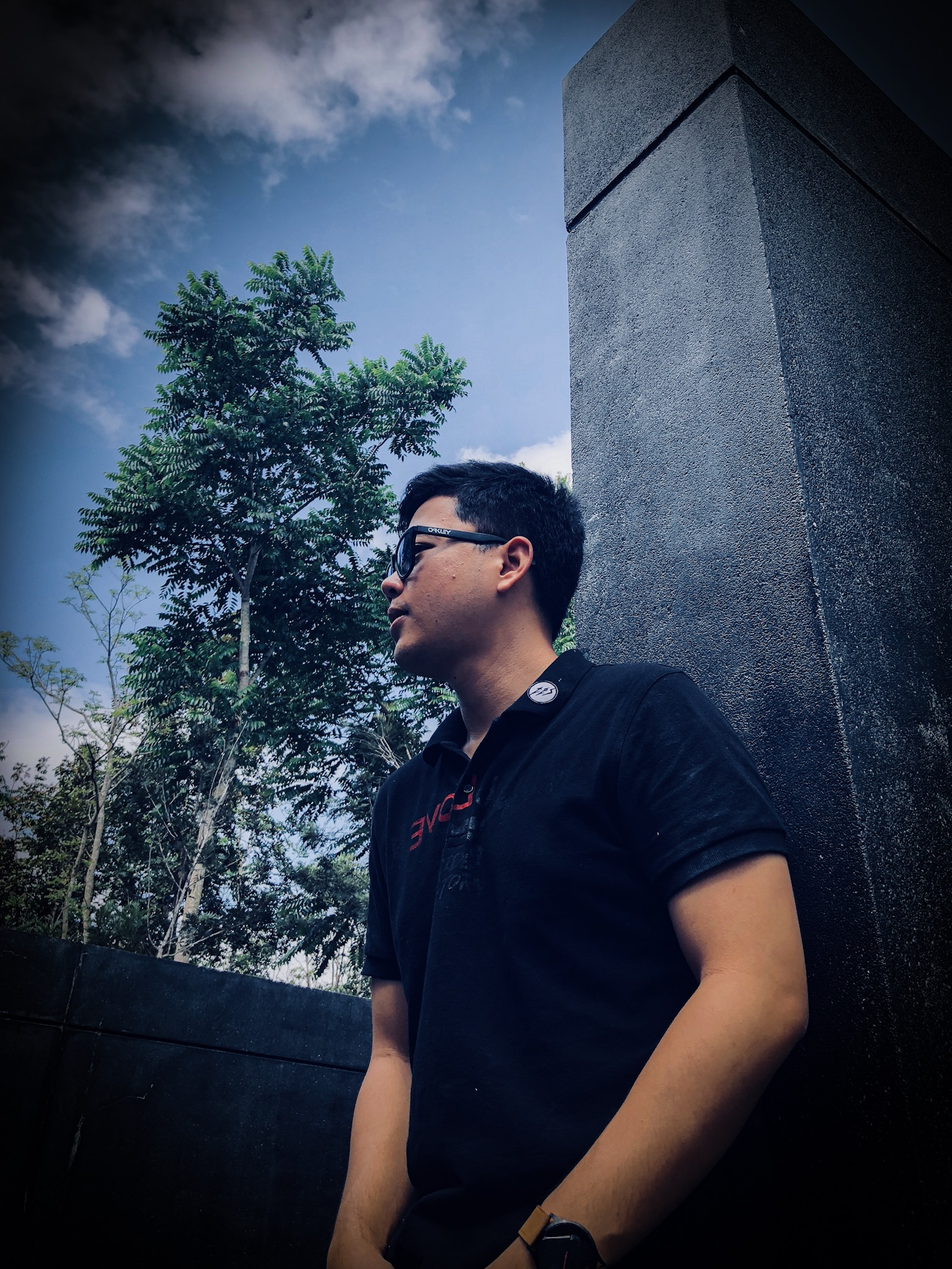
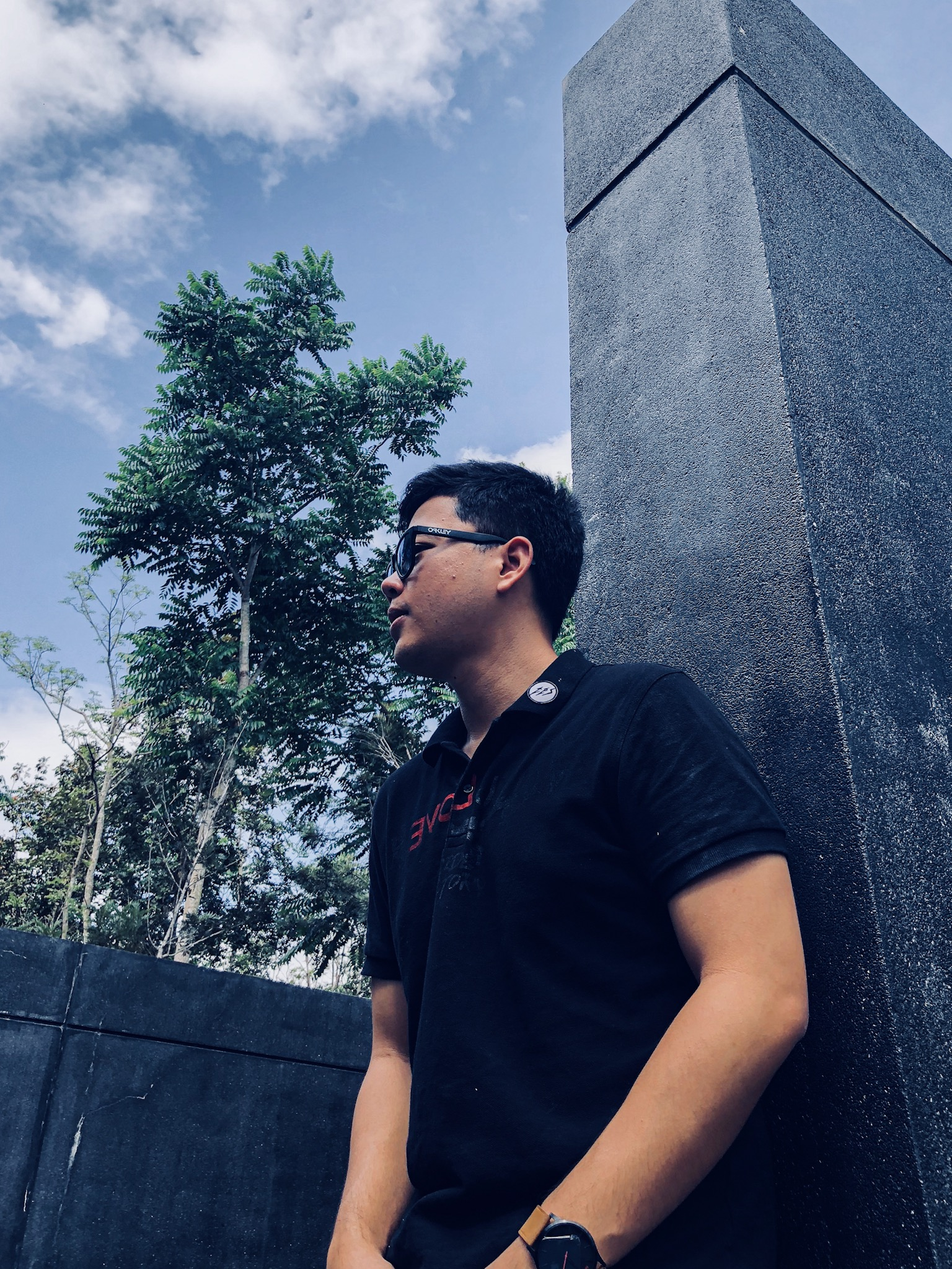
Finish section about

diff --git a/components/SectionAbout/index.js b/components/SectionAbout/index.js
@@ -1,20 +1,31 @@
 import styled from 'styled-components'
-import { Icon } from 'semantic-ui-react'
 import { pinkPrimary } from '../../css/Colors'
 
 const TonyImage = styled('img')`
   width: 100%;
   height: auto;
-  opacity: 0.7;
   display: block;
   border-radius: 20px;
 `
 
-const ContentLeft = styled('div')`
-  width: 450px;
-  min-width: 300px;
+const OverlayImage = styled('div')`
+  position: absolute;
+  top: 0;
+  left: 0;
+  right: 0;
+  bottom: 0;
+  z-index: 1;
   border-radius: 20px;
-  box-shadow: 10px 10px 20px 0 #000, -10px -10px 20px 0 #000;
+  box-shadow: 40px 40px 40px 0 #000 inset,
+              -40px -40px 40px 0 #000 inset;
+`
+
+const ContentLeft = styled('div')`
+  position: relative;
+  width: 350px;
+  min-width: 350px;
+  border-radius: 20px;
+  margin-bottom: 40px;
 `
 
 const ContentRight = styled('div')`
@@ -31,7 +42,6 @@ const TextTitle = styled('p')`
 `
 
 const BoxDetail = styled('div')`
-  display: flex;
   margin-bottom: 30px;
 `
 
@@ -39,6 +49,8 @@ const Wrapper = styled('section')`
   background-color: #0E1415;
   padding: 100px;
   display: flex;
+  flex-wrap: wrap;
+  justify-content: center;
   box-shadow: 50px 50px 50px 0 #000 inset,
               -50px -50px 50px 0 #000 inset;
 `
@@ -46,49 +58,35 @@ const Wrapper = styled('section')`
 const AboutSection = ({ profile, profile: { nickName: [ton, tony] } }) => (
   <Wrapper id='about'>
     <ContentLeft>
-      <TonyImage src='/static/image/section-about-tony.jpg' />
+      <TonyImage src={profile.picture} />
+      <OverlayImage />
     </ContentLeft>
     <ContentRight>
       <BoxDetail>
-        <TextTitle>
-          <Icon name='smile outline' />
-        </TextTitle>
-        <div>
-          <TextTitle>Myself</TextTitle>
-          <p>
-            My name is <u>Mr.{profile.firstName} {profile.lastName}</u> i am {profile.year} years old. And for my nickname you can call me <u>{ton}</u> or <u>{tony}</u>.
-          </p>
-        </div>
+        <TextTitle>Myself</TextTitle>
+        <p>
+          My name is <u>Mr.{profile.firstName} {profile.lastName}</u> i am {profile.year} years old. And for my nickname you can call me <u>{ton}</u> or <u>{tony}</u>.
+        </p>
       </BoxDetail>
       <BoxDetail>
-        <TextTitle>
-          <Icon name='list' />
-        </TextTitle>
-        <div>
-          <TextTitle>Introduce</TextTitle>
-          <ul style={{ paddingLeft: 15 }}>
-            {
-              profile.introduces.map((introduce, index) => (
-                <li key={index}>{introduce}</li>
-              ))
-            }
-          </ul>
-        </div>
+        <TextTitle>Introduce</TextTitle>
+        <ul style={{ paddingLeft: 15 }}>
+          {
+            profile.introduces.map((introduce, index) => (
+              <li key={index}>{introduce}</li>
+            ))
+          }
+        </ul>
       </BoxDetail>
       <BoxDetail>
-        <TextTitle>
-          <Icon name='pencil alternate' />
-        </TextTitle>
-        <div>
-          <TextTitle>Work Experience</TextTitle>
-          <ul style={{ paddingLeft: 15 }}>
-            {
-              profile.workExperience.map((exp, index) => (
-                <li key={index}>{exp}</li>
-              ))
-            }
-          </ul>
-        </div>
+        <TextTitle>Work Experience</TextTitle>
+        <ul style={{ paddingLeft: 15 }}>
+          {
+            profile.workExperience.map((exp, index) => (
+              <li key={index}>{exp}</li>
+            ))
+          }
+        </ul>
       </BoxDetail>
     </ContentRight>
   </Wrapper>

diff --git a/pages/index.js b/pages/index.js
@@ -15,6 +15,7 @@ Index.getInitialProps = () => {
     profile: {
       firstName: 'Tinnapop',
       lastName: 'Suraphon',
+      picture: '/static/image/section-about-tony.jpg',
       year: 27,
       nickName: ['Ton', 'Tony'],
       introduces: [
@@ -25,10 +26,10 @@ Index.getInitialProps = () => {
         'Actually i like many things.'
       ],
       workExperience: [
-        'D.T.C. ENTERPRISE Co.,Ltd | 1 (year)',
-        'Aksorn Education Public Company Limited, | 1 (year)',
-        'Elite digital studio | 4 (mounts)',
-        'Thomson Reuters | 6 (mounts)',
+        'D.T.C. ENTERPRISE Co.,Ltd | 1 year',
+        'Aksorn Education Public Company Limited, | 1 year',
+        'Elite digital studio | 4 mounts',
+        'Thomson Reuters | 6 mounts',
         'Getlinks Thailand | Present'
       ]
     }

diff --git a/css/utils/index.js b/css/utils/index.js
@@ -1,0 +1,5 @@
+import { css } from 'styled-components'
+
+export const Indent = css`
+  text-indent: ${({ indent = 20 }) => indent}px;
+`
